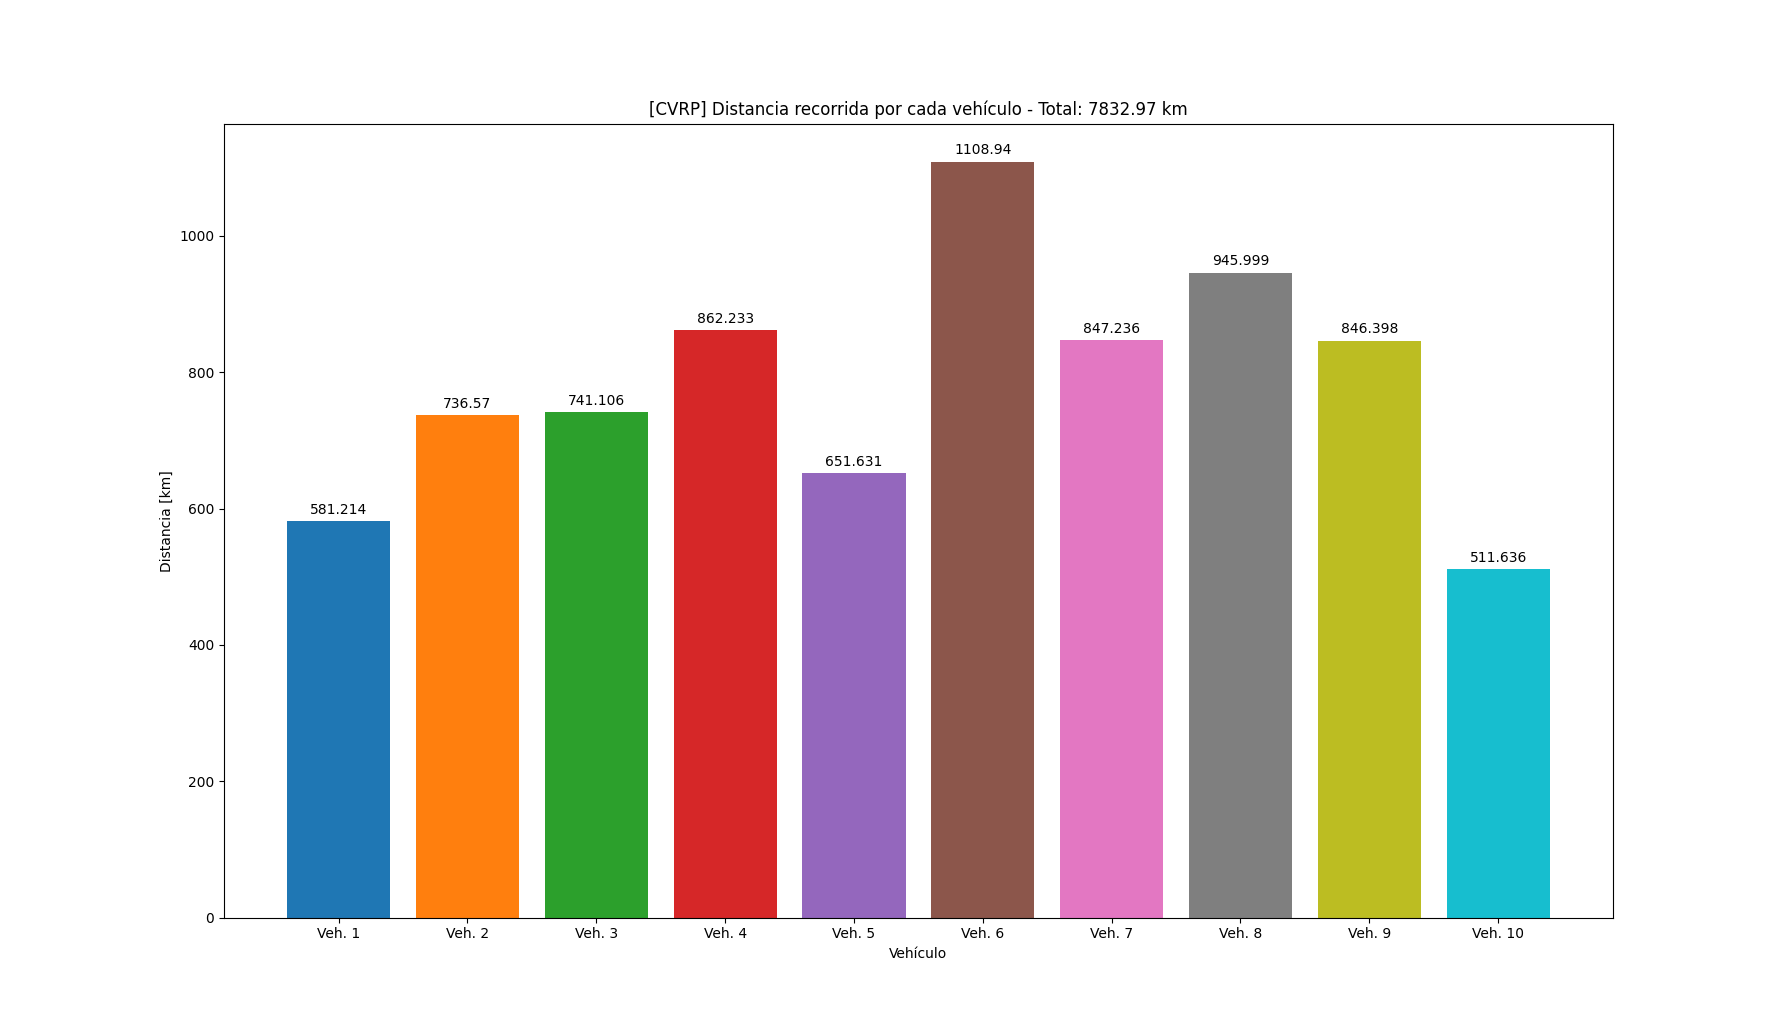
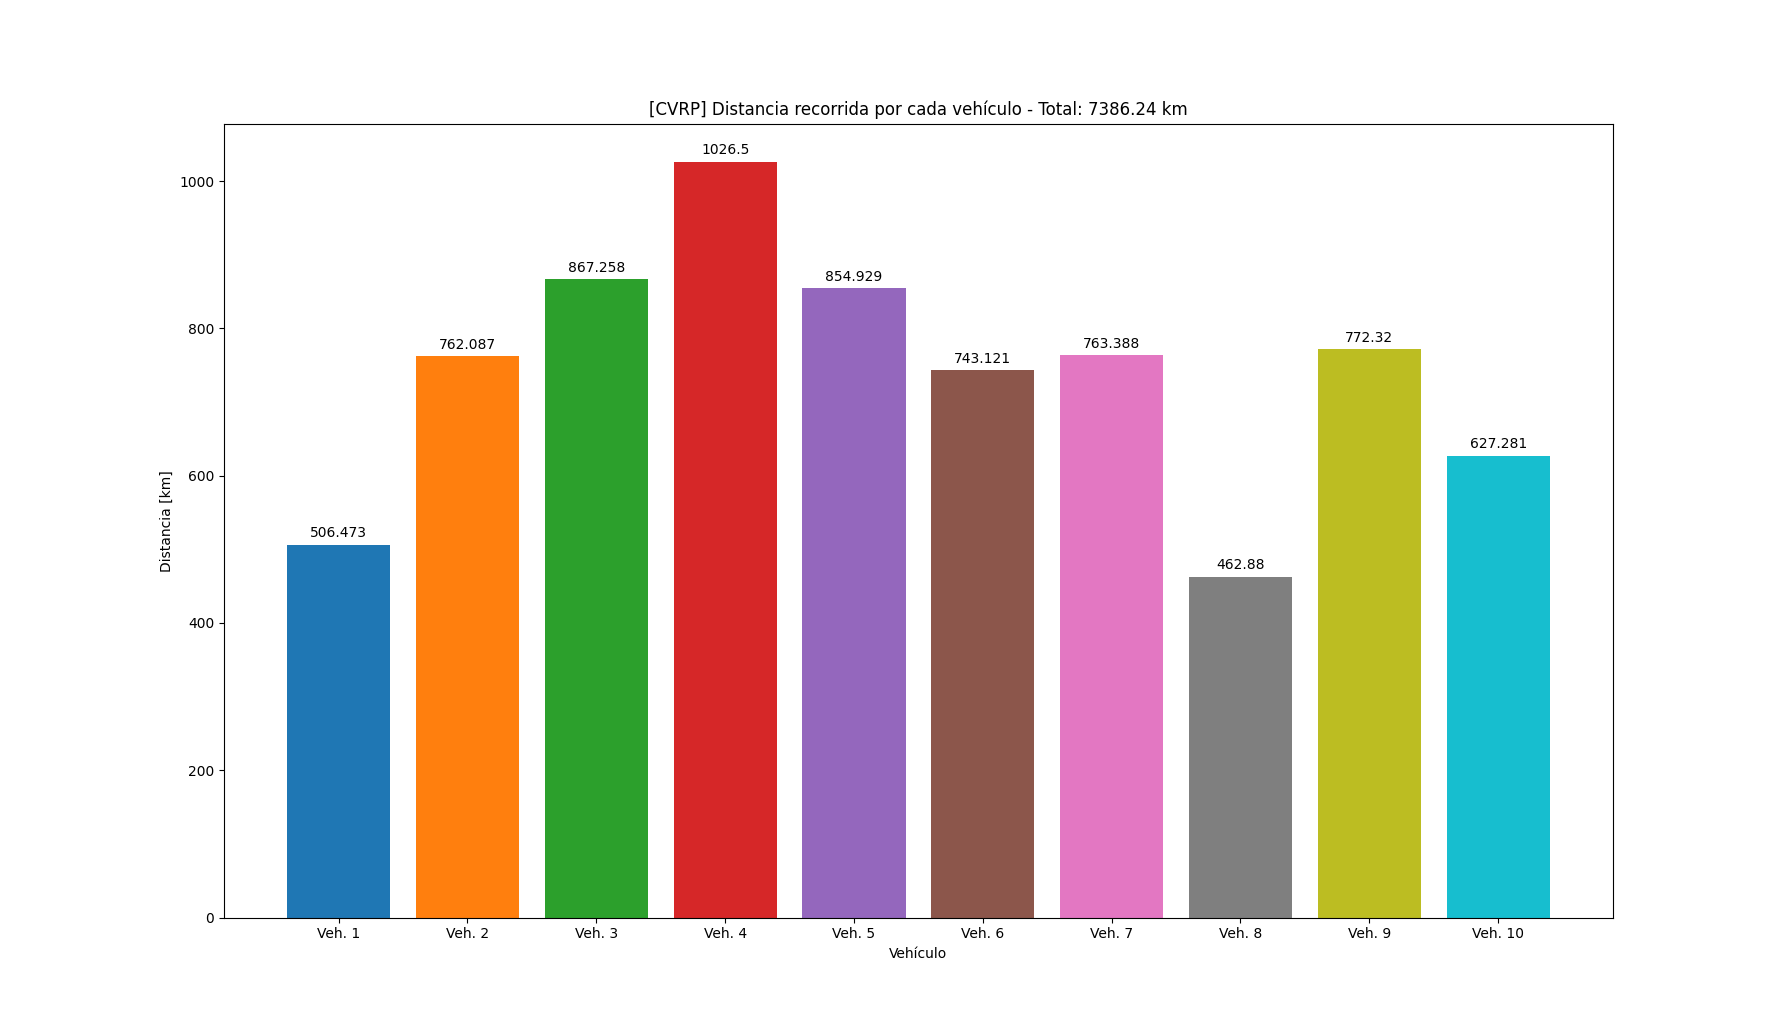
Swap_p neighbourhood operator fixed

diff --git a/src/main.py b/src/main.py
@@ -29,7 +29,7 @@ def main():
 
     # Lectura de datos
     data, max_capacity, max_time, max_vehicles, depots = utils.read_file("../data/Datos1000.txt", 100)
-    max_timer = 5
+    max_timer = 20
 
     # Definición del problema
     tsp = solver.TSPSolver(data, depots=depots)
@@ -46,9 +46,9 @@ def main():
     # Resolución del problema
     initial_solution = list(range(1, len(data['customer'])))
 
-    # methods = ['Simulated Annealing', 'Tabu Search']
     methods = ['Bruteforce', 'Nearest Neighbour', 'Cost Saving', 'Local Search (SWAP)', 'Local Search (INSERTION)',
                'VND', 'VNS', 'Simulated Annealing', 'Tabu Search']
+    # methods = ['VNS']
 
     initial_solution, _, _, _ = cvrp.solve(initial_solution, 'Nearest Neighbour')
     for method in methods:

diff --git a/src/heuristics.py b/src/heuristics.py
@@ -328,8 +328,8 @@ def _neighbourhood_swap_p(solution, p=0.2):
 
     # Construcción de vecinos
     N = math.floor(p * len(solution))
-    for i in range(len(solution) - 1 + N):
-        for j in range(i + 1 + N, len(solution)):
+    for i in range(len(solution) - N - 1):
+        for j in range(i + N + 1, len(solution) - N):
             neighbour = solution[:]
             neighbour[i:i + N], neighbour[j:j + N] = neighbour[j:j + N], neighbour[i:i + N]
 
